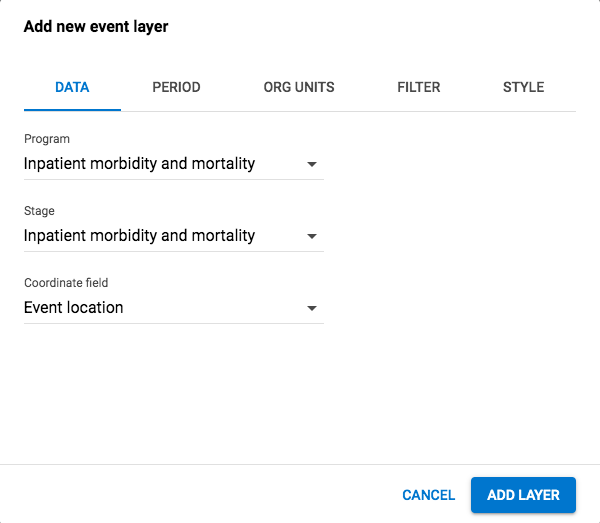
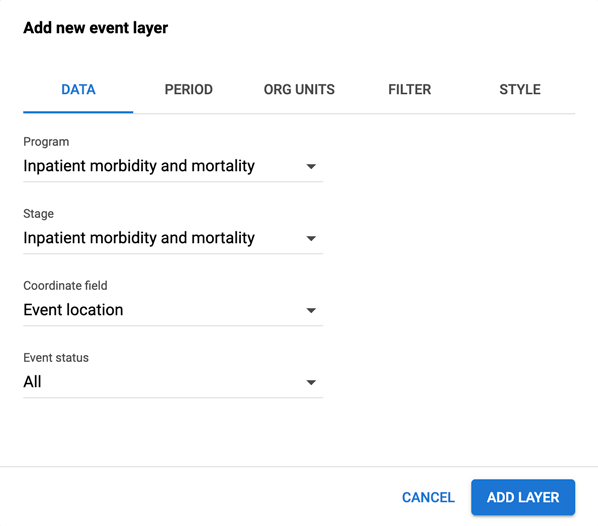
docs: Event status (DHIS2-7011)

diff --git a/src/commonmark/en/content/user/using-the-maps-app.md b/src/commonmark/en/content/user/using-the-maps-app.md
@@ -530,7 +530,11 @@ layer** selection. This opens the Events layer configuration dialog.
       program, other coordinates such as "Household position" are
       available.
 
-2.  In the **PERIOD** tab
+    - By default all events with coordinates are shown on the map.
+      Use the **Event status** field to only show events having one
+      status: Active, Completed, Schedule, Overdue or Skipped.
+
+2)  In the **PERIOD** tab
 
     ![](resources/images/maps/maps_event_layer_dialog_PERIOD.png)
 
@@ -547,7 +551,7 @@ layer** selection. This opens the Events layer configuration dialog.
         In the **Period** field, select one of the relative periods,
         for example **This month** or **Last year**.
 
-3.  In the **ORG UNITS** tab:
+3)  In the **ORG UNITS** tab:
 
     ![](resources/images/maps/maps_event_layer_dialog_ORG_UNITS.png)
 
@@ -561,7 +565,7 @@ layer** selection. This opens the Events layer configuration dialog.
         unit** the map data will appear differently for users at
         different levels in the organisation unit hierarchy.
 
-4.  In the **FILTER** tab:
+4)  In the **FILTER** tab:
 
     ![](resources/images/maps/maps_event_layer_dialog_FILTER.png)
 
@@ -588,7 +592,7 @@ layer** selection. This opens the Events layer configuration dialog.
       Multiple filters may be added. Click the trash button on the right of
       the filter to remove it.
 
-5.  In the **STYLE** tab:
+5)  In the **STYLE** tab:
 
     ![](resources/images/maps/maps_event_layer_dialog_STYLE.png)
 
@@ -621,7 +625,7 @@ layer** selection. This opens the Events layer configuration dialog.
       - **Booleans**: Select a color for true/yes and another for
         false/no.
 
-6.  Click **ADD LAYER**.
+6)  Click **ADD LAYER**.
 
 ### Modify an event layer
 
